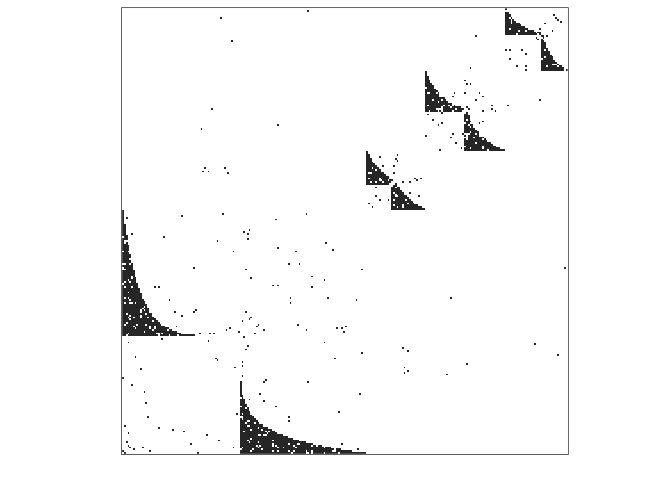
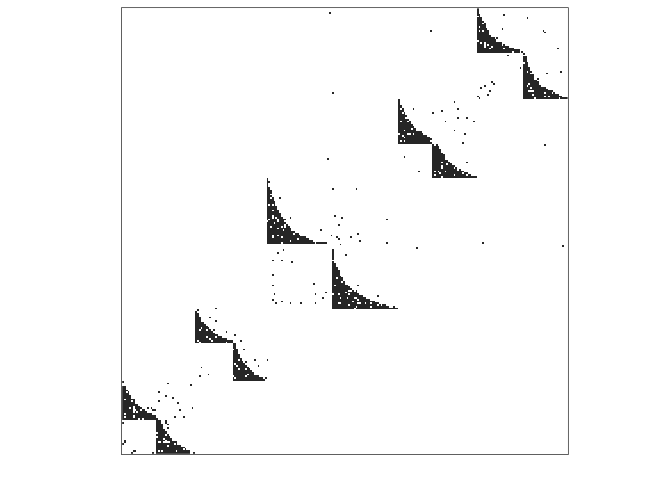
changing degree distribution

diff --git a/hedgerow.md b/hedgerow.md
@@ -77,11 +77,9 @@ as.data.frame(output) %>%
 
 ``` r
 time <- c(rep(10,5), rep(20, 5))
-
-i = 1
 graphs <- lapply(time, function(i){ 
         
-        x = netgen(n_modav = c(250, 25), 
+        netgen(n_modav = c(250, 25), 
                   cutoffs = c(30, 10), 
                   net_type = 41, # bi-partite nested
                   net_degree = i,
@@ -90,71 +88,70 @@ graphs <- lapply(time, function(i){
 ```
 
     ## 
-    ## module count = 4 
-    ## average degree = 9.012 
-    ## average module size = 62.5 
-    ## number of components = 2 
-    ## size of largest component = 211
-
-    ## 
-    ## module count = 3 
-    ## average degree = 8.852 
-    ## average module size = 83.3333333333333 
-    ## number of components = 1 
-    ## size of largest component = 250
-
-    ## 
     ## module count = 5 
-    ## average degree = 8.724 
+    ## average degree = 8.6 
     ## average module size = 50 
-    ## number of components = 2 
-    ## size of largest component = 213
-
-    ## 
-    ## module count = 6 
-    ## average degree = 8.228 
-    ## average module size = 41.6666666666667 
     ## number of components = 3 
-    ## size of largest component = 187
+    ## size of largest component = 209
 
     ## 
-    ## module count = 4 
-    ## average degree = 9.248 
-    ## average module size = 62.5 
+    ## module count = 5 
+    ## average degree = 7.82 
+    ## average module size = 50 
     ## number of components = 1 
     ## size of largest component = 250
 
     ## 
-    ## module count = 4 
-    ## average degree = 14.2 
-    ## average module size = 62.5 
+    ## module count = 5 
+    ## average degree = 8.9 
+    ## average module size = 50 
     ## number of components = 2 
-    ## size of largest component = 218
+    ## size of largest component = 217
 
     ## 
     ## module count = 5 
-    ## average degree = 14.028 
+    ## average degree = 8.704 
+    ## average module size = 50 
+    ## number of components = 1 
+    ## size of largest component = 250
+
+    ## 
+    ## module count = 5 
+    ## average degree = 8.188 
     ## average module size = 50 
     ## number of components = 1 
     ## size of largest component = 250
 
     ## 
     ## module count = 4 
-    ## average degree = 15.636 
+    ## average degree = 15.48 
+    ## average module size = 62.5 
+    ## number of components = 1 
+    ## size of largest component = 250
+    ## 
+    ## module count = 4 
+    ## average degree = 15.48 
     ## average module size = 62.5 
     ## number of components = 1 
     ## size of largest component = 250
 
     ## 
     ## module count = 6 
-    ## average degree = 11.872 
+    ## average degree = 12.368 
+    ## average module size = 41.6666666666667 
+    ## number of components = 1 
+    ## size of largest component = 250
+
+    ## 
+    ## module count = 6 
+    ## average degree = 11.992 
     ## average module size = 41.6666666666667 
     ## number of components = 1 
     ## size of largest component = 250
 
     ## 
     ## module count = 4 
-    ## average degree = 14.796 
+    ## average degree = 15.7 
     ## average module size = 62.5 
     ## number of components = 1 
     ## size of largest component = 250
